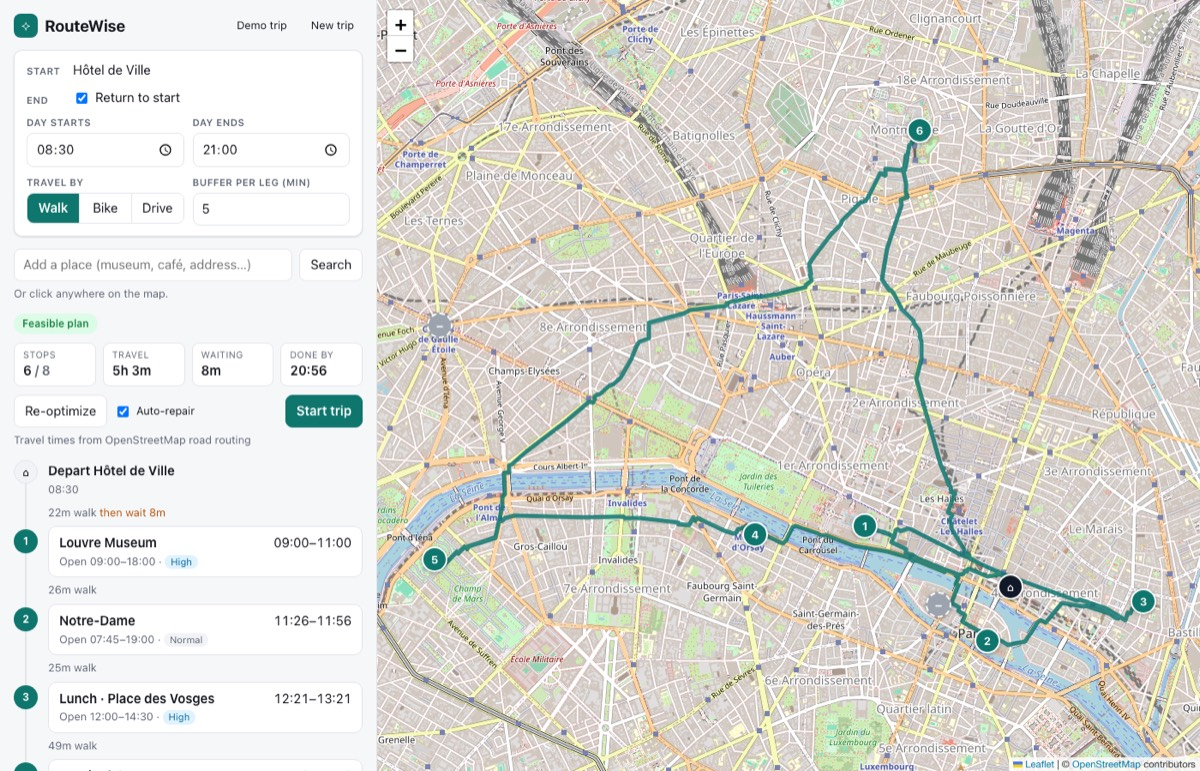
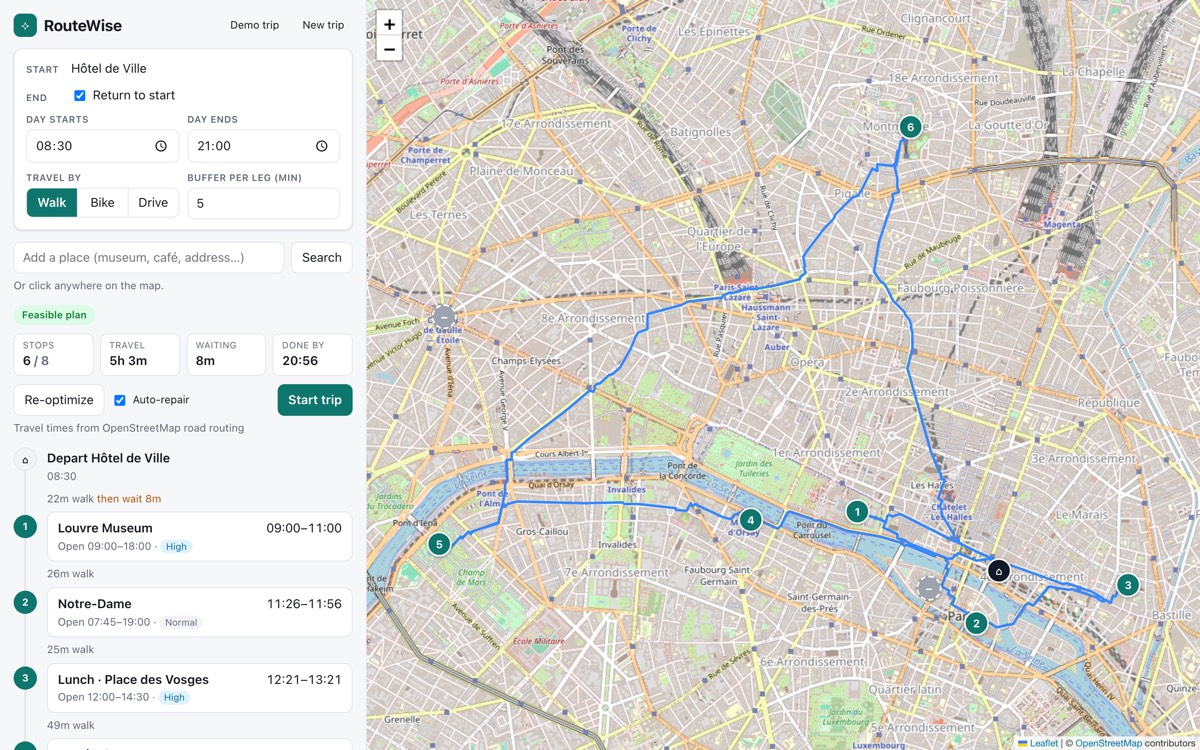
#84 SubTrack live link; RouteWise demo and WhyIOpened card, screenshot and demo

diff --git a/constants.ts b/constants.ts
@@ -220,7 +220,7 @@ export const SHELF_PROJECTS = [
 		tech: ["React", "TypeScript", "Leaflet", "OSRM", "Vitest"],
 		color: "#3b82f6",
 		image: "/routewise-plan.jpg",
-		gif: "/routewise-plan.jpg",
+		gif: "/routewise-demo.webp",
 		time: "2026",
 		shortDesc: "A day-trip planner with its own constraint solver. It orders your stops around opening hours, visit lengths and priorities using real road, bike or walking times, and repairs the schedule on the fly when you run late.",
 		liveUrl: "#", // TODO: add the live URL once deployed (the "Visit Live" button stays hidden while this is "#")
@@ -261,7 +261,7 @@ export const SHELF_PROJECTS = [
 		gif: "/subtrack-demo.webp",
 		time: "2026",
 		shortDesc: "A private, offline-first subscription tracker. It parses bank statements entirely in the browser, detects recurring charges and their billing cycles, and shows what is about to leave your account, and when.",
-		liveUrl: "#", // TODO: add the live URL (the "Visit Live" button stays hidden while this is "#")
+		liveUrl: "https://sub-track-psi.vercel.app",
 		githubUrl: "https://github.com/Lal-Jr/SubTrack",
 		// Copy reflects the current app; see the README for the full feature list.
 		problem: "Subscription trackers either want your bank login or a statement upload to their servers, or bury you in a flat list of charges. You still can't tell what is coming next, which charge will hurt, or which subscriptions are quietly piling up.",
@@ -277,9 +277,9 @@ export const SHELF_PROJECTS = [
 		category: "Productivity",
 		tech: ["TypeScript", "React", "Chrome MV3", "Vite"],
 		color: "#ec4899", // Pink-500
-		image: "/coming_soon.png", // TODO: swap for a real screenshot and demo once it has been tried in Chrome
-		gif: "/coming_soon.png",
-		time: "Coming Soon",
+		image: "/whyiopened-prompt.jpg",
+		gif: "/whyiopened-demo.webp",
+		time: "2026",
 		shortDesc: "A Chrome extension that asks why you opened a tab, in one keypress, so you know what every tab is for when you come back to it.",
 		liveUrl: "#",
 		githubUrl: "https://github.com/Lal-Jr/WhyIOpened",
@@ -287,7 +287,7 @@ export const SHELF_PROJECTS = [
 		thought: "Capture the reason at the moment the tab is opened, when it costs nothing to remember. For that to work the question has to be almost frictionless, and the answer still has to be useful later.",
 		solving: "A small card appears when you first look at a new tab. Press 1 to 6 to pick Read, Research, To-do, Reference, Buy or Watch, or add an optional note with #tags. A tab opened from a link offers its parent tab's reason, which Enter accepts, and every tab records which tab it came from, so even a skipped prompt keeps some context. A background service worker tracks the tab lifecycle and re-attaches reasons to restored tabs after a browser restart.",
 		result: "In progress. The prompt, a new tab page, a popup with fuzzy search, and a dashboard filterable by reason are built. Next up: snooze, auto-archive, and Chrome Tab Groups sync.",
-		isComingSoon: true,
+		isComingSoon: false,
 	},
 ] as const;
 
